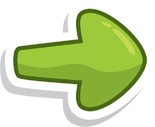
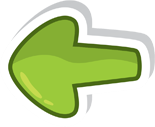
Añadidos modales entre niveles

diff --git a/js/game.js b/js/game.js
@@ -56,7 +56,7 @@ var Game = {
   },
   reset() {
     if (this.level === 0) {
-      this.background = new Background(this.ctx,img);
+      this.background = new Background(this.ctx);
       this.player = new Player(this.ctx, 1050, 25);
       this.enemies = [new Tank(this.ctx, 550, 200), new Tank(this.ctx, 300, 500), new Tank(this.ctx, 185, 150)];
       this.generateDiagonalObstacles(9,170,70);
@@ -67,7 +67,7 @@ var Game = {
       this.scoreBoard = new Scoreboard(1150, 25, this.ctx);
     }
     if (this.level === 1){
-      this.background = new Background(this.ctx,img);
+      this.background = new Background(this.ctx);
       this.player = new Player(this.ctx, 1050, 25);
       this.enemies = [new Tank(this.ctx, 550, 200), new Tank(this.ctx, 300, 500), new Tank(this.ctx, 185, 150)];
       this.generateHorizontalObstacles(17,170,80);
@@ -139,12 +139,14 @@ var Game = {
   },
   gameOver(){
     clearInterval(this.intervalId);
-    document.querySelector('#myModal').style.display ='block';
+    document.querySelector('#levelCleared').style.display = 'none'
+    document.querySelector('#redArrow').style.display = 'none'
+    document.querySelector('#modal').style.display ='flex';
   },
   clearLevel(){
-    this.level++;
     clearInterval(this.intervalId);
-    this.start();
+    document.querySelector('#gameOver').style.display = 'none'
+    document.querySelector('#modal').style.display ='flex';
   },
   generateDiagonalObstacles(number,x,y){
     for (var i = 0; i<number;i++){

diff --git a/js/index.js b/js/index.js
@@ -1,10 +1,31 @@
 window.onload = function(){
-  document.querySelector('#initbutton').onclick = function(){
-    document.querySelector('#game').style.display = 'block';
-    document.querySelector('#init').style.display = 'none';
-    img = new Image(),
-    img.src = './img/frame.jpg';
-    img.onload = Game.init("canvas");
+  const modal = document.querySelector('#modal'),
+        game = document.querySelector('#game'),
+        initbutton = document.querySelector('#initbutton'),
+        init = document.querySelector('#init'),
+        red = document.querySelector('#redArrow'),
+        green = document.querySelector('#greenArrow'),
+        blue = document.querySelector('#blueArrow')
+
+  initbutton.onclick = function(){
+    game.style.display = 'block';
+    init.style.display = 'none';
+    Game.init("canvas");
   }
+  red.onclick = function(){
+    Game.level++;
+    modal.style.display ='none';
+    debugger
+    Game.init("canvas");
+  } 
   
+  blue.onclick = function(){
+    modal.style.display ='none';
+    Game.init("canvas");
+  } 
+  
+  green.onclick = function(){
+    modal.style.display ='none';
+    window.location.replace("../TankWar/index.html");
+  }   
 };

diff --git a/style/style.css b/style/style.css
@@ -5,6 +5,9 @@
 .modal {
   display: none;
   position: fixed;
+  justify-content: center;
+  align-items: center;
+  flex-direction: column;
   z-index: 1; 
   left: 0;
   top: 0;
@@ -16,22 +19,40 @@
 }
 
 .modal-content {
-  background-color: #fefefe;
-  margin: 15% auto; 
-  padding: 20px;
-  border: 1px solid #888;
-  width: 80%;
-}
-.close {
-  color: #aaa;
-  float: right;
-  font-size: 28px;
-  font-weight: bold;
+  display: flex;
+  flex-direction: column;
+  justify-content: space-around;
+  align-items: center
 }
 
-.close:hover,
-.close:focus {
-  color: black;
-  text-decoration: none;
+#gameOver {
+  
+  width: 25%;
+  height: 35%;
+}
+
+#levelCleared {
+  width: 25%;
+  height: 45%;
+}
+
+#buttons {
+  display: flex;
+  justify-content: center;
+  align-items: center;
+}
+
+.button:hover{
+  width: 120px;
+  height: 118px;
   cursor: pointer;
+  padding-top: 0;
+}
+
+.button{
+  padding-top: 70px;
+  width: 100px;
+  height: 90px;
+  margin: 20px;
+  transition: width .5s, height .5s, padding-top .5s;
 }

diff --git a/index.html b/index.html
@@ -19,13 +19,19 @@
 </head>
 <body>
   <div id="init">
-    <button id='initbutton'>Start</button>
+    <button id="initbutton">Start</button>
   </div>
-  <div id="myModal" class="modal">
+  <div id="modal" class="modal">
 
     <!-- Modal content -->
     <div class="modal-content">
-      <p>Some text in the Modal..</p>
+      <img id="levelCleared" src="./img/PLAYAGAIN.png" alt="">
+      <img src="./img/GAMEOVER.png" alt="" id="gameOver">
+      <div id="buttons">
+        <img class="button" id="greenArrow" src="./img/greenArrow.png" alt="">
+        <img class="button" id="blueArrow" src="./img/blueArrow.png" alt="">
+        <img class="button" id="redArrow" src="./img/redArrow.png" alt="">  
+      </div>
     </div>
   
   </div>

diff --git a/js/background.js b/js/background.js
@@ -1,9 +1,10 @@
 class Background {
-  constructor(ctx,img){
+  constructor(ctx){
     this.ctx = ctx,
     this.img = new Image(),
     this.img.src = './img/bigbg.png';
-    this.img2 = img
+    this.img2 = new Image();
+    this.img2.src = './img/frame.jpg'
     }
   draw(){
     this.ctx.drawImage(this.img2,0,0,1380 ,650);
